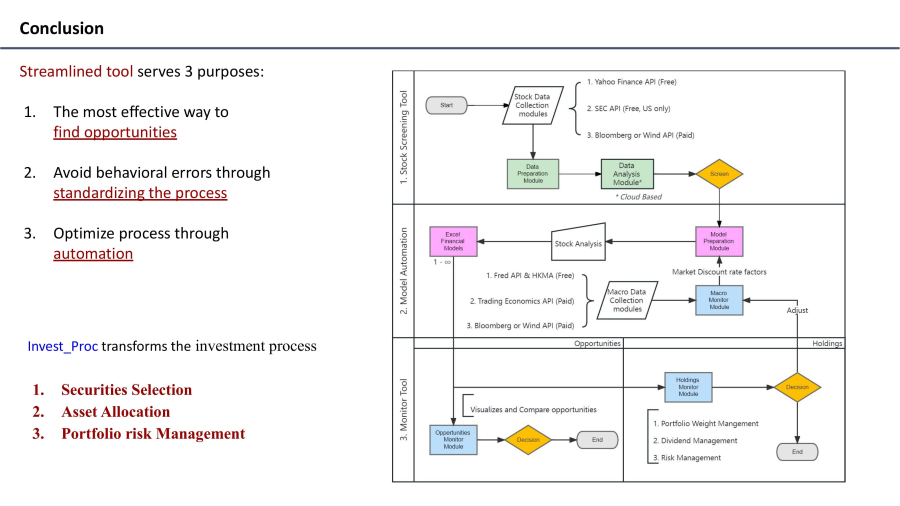
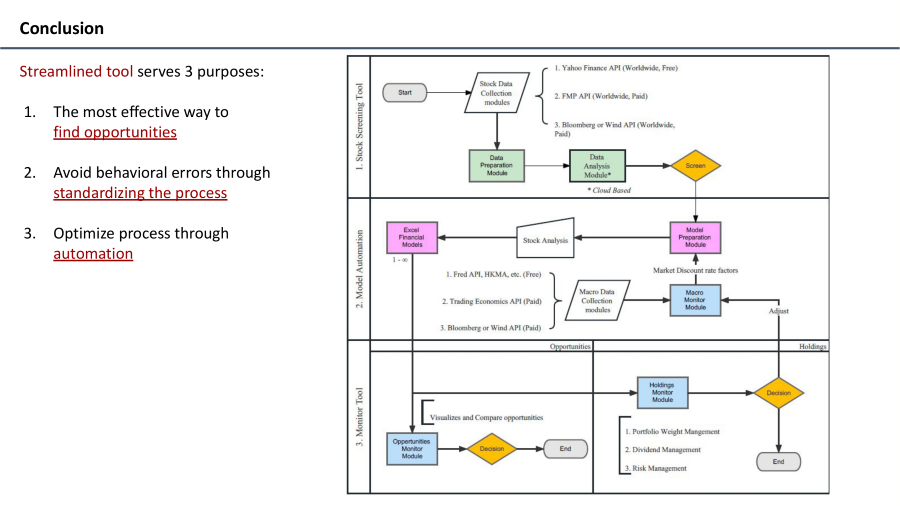
Updated Readme

Changed region(s): [[0.3733, 0.0889, 0.9644, 0.9783], [0.0311, 0.7411, 0.28, 0.8893], [0.0311, 0.6522, 0.3422, 0.7115]]

diff --git a/README.md b/README.md
@@ -22,7 +22,7 @@ Workflow
 Data sources
 =========================
 - Yahoo finance (yfinance)
-- SEC API (WIP)
+- FMP API (WIP)
 - Bloomberg API (WIP)
 - Wind (WIP)
 
